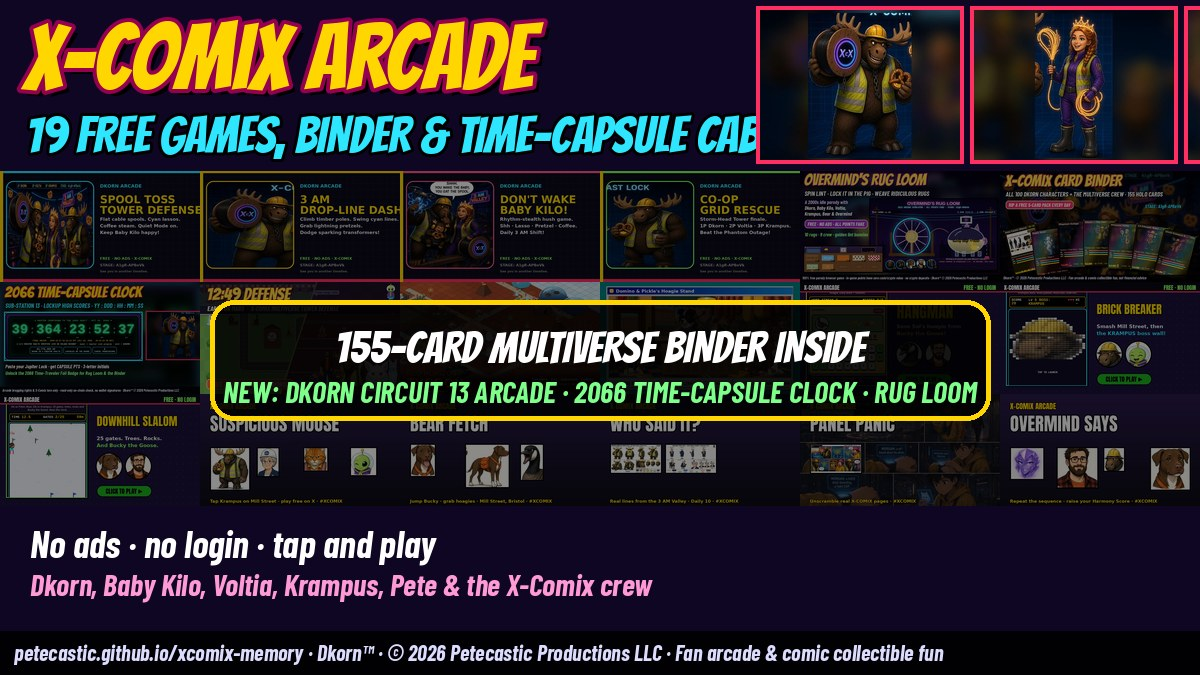
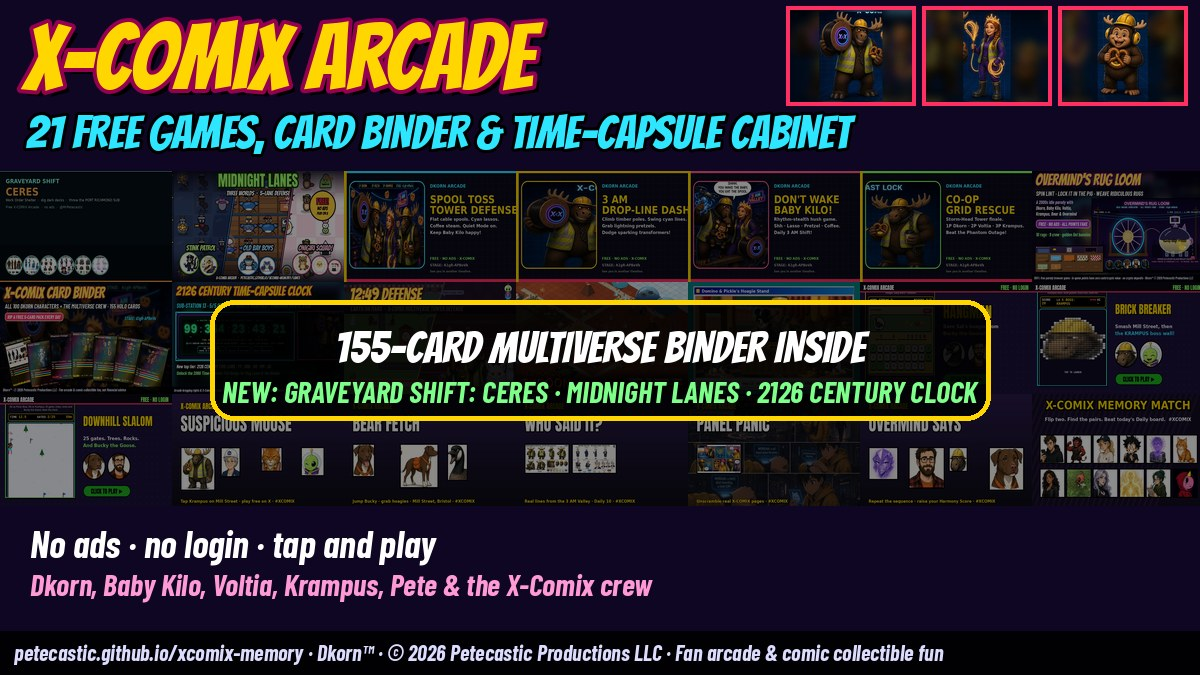
Hub: wire Graveyard Shift: Ceres + Midnight Lanes: Three Worlds (21 free games, card binder & time-capsule cabinet); refresh arcade + 2126 vault-clock promos

Changed region(s): [[0.0, 0.0, 1.0, 0.7467]]

diff --git a/index.html b/index.html
@@ -1,9 +1,9 @@
 <!doctype html><html lang="en"><head><meta charset="utf-8">
 <meta name="viewport" content="width=device-width,initial-scale=1,viewport-fit=cover">
 <title>X-COMIX Arcade · 3 AM Valley</title><meta name="theme-color" content="#0d0d14">
-<meta name="description" content="19 free X-COMIX MULTIVERSE games, binder &amp; time-capsule cabinet: the new Dkorn Circuit 13 Arcade (Spool Toss TD, 3 AM Drop-Line Dash, Don&#39;t Wake Baby Kilo!, Co-Op Grid Rescue, Overmind&#39;s Rug Loom, the 155-card Multiverse Card Binder, the 2126 Century Time-Capsule Clock), 12:49 Defense, Red Horizon Tycoon, Domino &amp; Pickle's Hoagie Stand, Hangman, Brick Breaker, Downhill Slalom, Memory Match, Suspicious Moose, Bear Fetch, Who Said It?, Panel Panic and Overmind Says.">
+<meta name="description" content="21 free X-COMIX MULTIVERSE games, card binder &amp; time-capsule cabinet: new Graveyard Shift: Ceres and Midnight Lanes: Three Worlds, the Dkorn Circuit 13 Arcade (Spool Toss TD, 3 AM Drop-Line Dash, Don&#39;t Wake Baby Kilo!, Co-Op Grid Rescue, Overmind&#39;s Rug Loom, the 155-card Multiverse Card Binder, the 2126 Century Time-Capsule Clock), 12:49 Defense, Red Horizon Tycoon, Domino &amp; Pickle's Hoagie Stand, Hangman, Brick Breaker, Downhill Slalom, Memory Match, Suspicious Moose, Bear Fetch, Who Said It?, Panel Panic and Overmind Says.">
 <meta name="twitter:card" content="summary_large_image"><meta name="twitter:site" content="@mrpetecastic"><meta name="twitter:title" content="X-COMIX Arcade · 3 AM Valley">
-<meta name="twitter:description" content="19 free X-COMIX games, binder &amp; time-capsule cabinet, now with the Dkorn Circuit 13 Arcade, a 155-card Multiverse Binder and the 2126 Century Time-Capsule Clock. No ads, no login. Tap and play."><meta name="twitter:image" content="https://petecastic.github.io/xcomix-memory/arcade/promo/arcade.jpg">
+<meta name="twitter:description" content="21 free X-COMIX games, card binder &amp; time-capsule cabinet, now with Graveyard Shift: Ceres, Midnight Lanes: Three Worlds, the Dkorn Circuit 13 Arcade, a 155-card Multiverse Binder and the 2126 Century Time-Capsule Clock. No ads, no login. Tap and play."><meta name="twitter:image" content="https://petecastic.github.io/xcomix-memory/arcade/promo/arcade.jpg">
 <meta property="og:title" content="X-COMIX Arcade · 3 AM Valley"><meta property="og:type" content="website"><meta property="og:url" content="https://petecastic.github.io/xcomix-memory/">
 <meta property="og:image" content="https://petecastic.github.io/xcomix-memory/arcade/promo/arcade.jpg"><meta property="og:image:width" content="1200"><meta property="og:image:height" content="675">
 <link rel="icon" href="data:,"><link rel="stylesheet" href="arcade/common.css"><link rel="stylesheet" href="arcade/dkorn-vip.css"><style>
@@ -40,13 +40,13 @@ body{background:#1a1238;padding:0}
 .legal{display:block;margin-top:6px;font-size:11px;color:#b8c3e6}
 </style></head><body>
 <div class="top"><div class="logo">X-<span>COMIX</span> ARCADE</div><div class="clk">🕐 12:49</div></div>
-<div class="wrap"><div class="free">FREE GAMES!</div><p class="lead">19 free games, binder &amp; time-capsule cabinet, made in the 3 AM Valley by @PeteCastic. No ads, no login. One tap and you're playing.</p>
+<div class="wrap"><div class="free">FREE GAMES!</div><p class="lead">21 free games, card binder &amp; time-capsule cabinet, made in the 3 AM Valley by @PeteCastic. No ads, no login. One tap and you're playing.</p>
 <div class="vipbar"><button class="vipb" id="vipHub">🎟 VIP Pass (Read-Only Check)</button><span id="lockHub"></span><a class="vipb" href="vault-clock/" style="text-decoration:none">⏳ 2126 Century Time-Capsule Clock</a></div>
-<section class="dk"><h2>⚡ DKORN · CIRCUIT 13 ARCADE<small>DKORN &amp; MULTIVERSE NEW RELEASES · STAGE: A1gR-APBeVk</small></h2><div class="nr"><a class="nrt" href="dkorn-spool/"><img src="arcade/promo/dkorn-spool.jpg" alt="Spool Toss Td"><b>SPOOL TOSS TD</b><em>Strategy</em></a><a class="nrt" href="dkorn-dash/"><img src="arcade/promo/dkorn-dash.jpg" alt="3 Am Drop-Line Dash"><b>3 AM DROP-LINE DASH</b><em>Action</em></a><a class="nrt" href="dkorn-quiet/"><img src="arcade/promo/dkorn-quiet.jpg" alt="Don&#39;T Wake Baby Kilo!"><b>DON&#39;T WAKE BABY KILO!</b><em>Puzzle</em></a><a class="nrt" href="dkorn-rescue/"><img src="arcade/promo/dkorn-rescue.jpg" alt="Co-Op Grid Rescue"><b>CO-OP GRID RESCUE</b><em>Action</em></a><a class="nrt" href="rug-loom/"><img src="arcade/promo/rug-loom.jpg" alt="Overmind&#39;S Rug Loom"><b>OVERMIND&#39;S RUG LOOM</b><em>Sim</em></a><a class="nrt" href="binder/"><img src="arcade/promo/binder.jpg" alt="Multiverse Card Binder"><b>MULTIVERSE CARD BINDER</b><em>Collectibles</em></a><a class="nrt" href="vault-clock/"><img src="arcade/promo/vault-clock.jpg" alt="2126 Century Time-Capsule Clock"><b>2126 CENTURY CLOCK</b><em>Collectibles</em></a></div></section>
+<section class="dk"><h2>⚡ DKORN · CIRCUIT 13 ARCADE<small>DKORN &amp; MULTIVERSE NEW RELEASES · STAGE: A1gR-APBeVk</small></h2><div class="nr"><a class="nrt" href="ceres/"><img src="arcade/promo/ceres.jpg" alt="Graveyard Shift: Ceres"><b>GRAVEYARD SHIFT: CERES</b><em>Sim · Strategy</em></a><a class="nrt" href="lanes/"><img src="arcade/promo/lanes.jpg" alt="Midnight Lanes: Three Worlds"><b>MIDNIGHT LANES: THREE WORLDS</b><em>Strategy</em></a><a class="nrt" href="dkorn-spool/"><img src="arcade/promo/dkorn-spool.jpg" alt="Spool Toss Td"><b>SPOOL TOSS TD</b><em>Strategy</em></a><a class="nrt" href="dkorn-dash/"><img src="arcade/promo/dkorn-dash.jpg" alt="3 Am Drop-Line Dash"><b>3 AM DROP-LINE DASH</b><em>Action</em></a><a class="nrt" href="dkorn-quiet/"><img src="arcade/promo/dkorn-quiet.jpg" alt="Don&#39;T Wake Baby Kilo!"><b>DON&#39;T WAKE BABY KILO!</b><em>Puzzle</em></a><a class="nrt" href="dkorn-rescue/"><img src="arcade/promo/dkorn-rescue.jpg" alt="Co-Op Grid Rescue"><b>CO-OP GRID RESCUE</b><em>Action</em></a><a class="nrt" href="rug-loom/"><img src="arcade/promo/rug-loom.jpg" alt="Overmind&#39;S Rug Loom"><b>OVERMIND&#39;S RUG LOOM</b><em>Sim</em></a><a class="nrt" href="binder/"><img src="arcade/promo/binder.jpg" alt="Multiverse Card Binder"><b>MULTIVERSE CARD BINDER</b><em>Collectibles</em></a><a class="nrt" href="vault-clock/"><img src="arcade/promo/vault-clock.jpg" alt="2126 Century Time-Capsule Clock"><b>2126 CENTURY CLOCK</b><em>Collectibles</em></a></div></section>
 <a class="feat" href="tycoon/"><img src="arcade/promo/tycoon.jpg" alt="Red Horizon Tycoon: a theme park on Mars"><span class="fl">FEATURED · NEW</span><span class="play fp">PLAY ▶</span></a>
 <a class="pickday" id="pick"></a>
 <div class="cats" id="cats"><button class="on" data-c="All">ALL</button><button class="dkp" data-c="Dkorn">⚡ DKORN</button><button class="dkp" data-c="Collectibles">COLLECTIBLES</button><button data-c="Action">ACTION</button><button data-c="Puzzle">PUZZLE</button><button data-c="Sim">SIM</button><button data-c="Sports">SPORTS</button><button data-c="Strategy">STRATEGY</button><button data-c="Word">WORD</button></div>
-<div class="grid" id="grid"><a class="tile" data-cat="Strategy Dkorn" data-k="dkorn-spool" href="dkorn-spool/"><span class="th"><img src="arcade/promo/dkorn-spool.jpg" alt="" loading="lazy"><i>NEW</i></span><b>SPOOL TOSS TD</b><small>Stack cable spools on Sub-Station 13. Voltia lassos, Krampus steams, keep Baby Kilo asleep.</small><span class="foot"><span class="stars" data-k="dkorn-spool"></span><span class="play">PLAY ▶</span></span><em class="cat">Strategy · DKORN</em></a><a class="tile" data-cat="Action Dkorn" data-k="dkorn-dash" href="dkorn-dash/"><span class="th"><img src="arcade/promo/dkorn-dash.jpg" alt="" loading="lazy"><i>NEW</i></span><b>3 AM DROP-LINE DASH</b><small>Climb timber poles, swing cyan drop-lines, grab lightning pretzels over the 3 AM rooftops.</small><span class="foot"><span class="stars" data-k="dkorn-dash"></span><span class="play">PLAY ▶</span></span><em class="cat">Action · DKORN</em></a><a class="tile" data-cat="Puzzle Dkorn" data-k="dkorn-quiet" href="dkorn-quiet/"><span class="th"><img src="arcade/promo/dkorn-quiet.jpg" alt="" loading="lazy"><i>NEW</i></span><b>DON&#39;T WAKE BABY KILO!</b><small>Rhythm-stealth hush game. Shh the drones, pass the pretzel teether, keep the baby asleep.</small><span class="foot"><span class="stars" data-k="dkorn-quiet"></span><span class="play">PLAY ▶</span></span><em class="cat">Puzzle · DKORN</em></a><a class="tile" data-cat="Action Dkorn" data-k="dkorn-rescue" href="dkorn-rescue/"><span class="th"><img src="arcade/promo/dkorn-rescue.jpg" alt="" loading="lazy"><i>NEW</i></span><b>CO-OP GRID RESCUE</b><small>Storm-Head Tower finale. Dkorn climbs, Voltia reflects, Krampus steams the Phantom Outage.</small><span class="foot"><span class="stars" data-k="dkorn-rescue"></span><span class="play">PLAY ▶</span></span><em class="cat">Action · DKORN</em></a><a class="tile" data-cat="Sim Dkorn" data-k="rug-loom" href="rug-loom/"><span class="th"><img src="arcade/promo/rug-loom.jpg" alt="" loading="lazy"><i>NEW</i></span><b>OVERMIND&#39;S RUG LOOM</b><small>Idle parody: spin fake lint, lock it in the glass pig, weave ridiculous rugs. All points fake.</small><span class="foot"><span class="stars" data-k="rug-loom"></span><span class="play">PLAY ▶</span></span><em class="cat">Sim · DKORN</em></a><a class="tile" data-cat="Collectibles Dkorn" data-k="binder" href="binder/"><span class="th"><img src="arcade/promo/binder.jpg" alt="" loading="lazy"><i>NEW</i></span><b>MULTIVERSE CARD BINDER</b><small>155 holo cards: all 100 Dkorn characters plus the multiverse crew. Free pack every day.</small><span class="foot"><span class="stars" data-k="binder"></span><span class="play">PLAY ▶</span></span><em class="cat">Collectibles · DKORN</em></a><a class="tile" data-cat="Collectibles Dkorn" data-k="vault-clock" href="vault-clock/"><span class="th"><img src="arcade/promo/vault-clock.jpg" alt="" loading="lazy"><i>NEW</i></span><b>2126 CENTURY TIME-CAPSULE CLOCK</b><small>Retro CRT countdown to 2126 and a lockup high-score table. Paste your capsule, claim the foil badge.</small><span class="foot"><span class="stars" data-k="vault-clock"></span><span class="play">PLAY ▶</span></span><em class="cat">Collectibles · DKORN</em></a><a class="tile" data-cat="Strategy" data-k="td" href="td/"><span class="th"><img src="arcade/promo/td.jpg" alt="" loading="lazy"><i>NEW</i></span><b>12:49 Defense: Earth on Mars</b><small>Tower defense with the X-COMIX cast. Pete, Krampus, Salt and friends hold the line from Bristol to the Red Horizon.</small><span class="foot"><span class="stars" data-k="td"></span><span class="play">PLAY &#9654;</span></span><em class="cat">Strategy</em></a><a class="tile" data-cat="Sim" data-k="tycoon" href="tycoon/"><span class="th"><img src="arcade/promo/tycoon.jpg" alt="" loading="lazy"><i>NEW</i></span><b>RED HORIZON TYCOON</b><small>Build a theme park on Mars.</small><span class="foot"><span class="stars" data-k="tycoon"></span><span class="play">PLAY ▶</span></span><em class="cat">Sim</em></a><a class="tile" data-cat="Sim" data-k="hoagie" href="hoagie/"><span class="th"><img src="arcade/promo/hoagie.jpg" alt="" loading="lazy"><i>NEW</i></span><b>HOAGIE STAND</b><small>Domino &amp; Pickle sell hoagies. Idle tycoon.</small><span class="foot"><span class="stars" data-k="hoagie"></span><span class="play">PLAY ▶</span></span><em class="cat">Sim</em></a><a class="tile" data-cat="Word" data-k="hangman" href="hangman/"><span class="th"><img src="arcade/promo/hangman.jpg" alt="" loading="lazy"><i>DAILY</i></span><b>HANGMAN</b><small>Save Sal's hoagie from Bucky the Goose.</small><span class="foot"><span class="stars" data-k="hangman"></span><span class="play">PLAY ▶</span></span><em class="cat">Word</em></a><a class="tile" data-cat="Action" data-k="bricks" href="bricks/"><span class="th"><img src="arcade/promo/bricks.jpg" alt="" loading="lazy"><i>NEW</i></span><b>BRICK BREAKER</b><small>Smash Mill Street and the Krampus boss wall.</small><span class="foot"><span class="stars" data-k="bricks"></span><span class="play">PLAY ▶</span></span><em class="cat">Action</em></a><a class="tile" data-cat="Sports" data-k="slalom" href="slalom/"><span class="th"><img src="arcade/promo/slalom.jpg" alt="" loading="lazy"><i>NEW</i></span><b>DOWNHILL SLALOM</b><small>Ski 25 gates. Dodge Bucky.</small><span class="foot"><span class="stars" data-k="slalom"></span><span class="play">PLAY ▶</span></span><em class="cat">Sports</em></a><a class="tile" data-cat="Puzzle" data-k="memory" href="memory/"><span class="th"><img src="shots/promo.png" alt="" loading="lazy"><i>DAILY</i></span><b>MEMORY MATCH</b><small>Flip cards, match the crew.</small><span class="foot"><span class="stars" data-k="memory"></span><span class="play">PLAY ▶</span></span><em class="cat">Puzzle</em></a><a class="tile" data-cat="Action" data-k="moose" href="moose/"><span class="th"><img src="arcade/promo/moose.jpg" alt="" loading="lazy"></span><b>SUSPICIOUS MOOSE</b><small>Tap Krampus in the windows.</small><span class="foot"><span class="stars" data-k="moose"></span><span class="play">PLAY ▶</span></span><em class="cat">Action</em></a><a class="tile" data-cat="Action" data-k="fetch" href="fetch/"><span class="th"><img src="arcade/promo/fetch.jpg" alt="" loading="lazy"></span><b>BEAR FETCH</b><small>Jump the goose, grab hoagies.</small><span class="foot"><span class="stars" data-k="fetch"></span><span class="play">PLAY ▶</span></span><em class="cat">Action</em></a><a class="tile" data-cat="Word" data-k="said" href="said/"><span class="th"><img src="arcade/promo/said.jpg" alt="" loading="lazy"><i>DAILY</i></span><b>WHO SAID IT?</b><small>Real lines from the cast.</small><span class="foot"><span class="stars" data-k="said"></span><span class="play">PLAY ▶</span></span><em class="cat">Word</em></a><a class="tile" data-cat="Puzzle" data-k="panels" href="panels/"><span class="th"><img src="arcade/promo/panels.jpg" alt="" loading="lazy"><i>DAILY</i></span><b>PANEL PANIC</b><small>Unscramble a real page.</small><span class="foot"><span class="stars" data-k="panels"></span><span class="play">PLAY ▶</span></span><em class="cat">Puzzle</em></a><a class="tile" data-cat="Puzzle" data-k="says" href="says/"><span class="th"><img src="arcade/promo/says.jpg" alt="" loading="lazy"></span><b>OVERMIND SAYS</b><small>Repeat the toaster AI.</small><span class="foot"><span class="stars" data-k="says"></span><span class="play">PLAY ▶</span></span><em class="cat">Puzzle</em></a></div><p class="note">★ Stars are your own rating, saved only on this device.</p>
+<div class="grid" id="grid"><a class="tile" data-cat="Sim Strategy" data-k="ceres" href="ceres/"><span class="th"><img src="arcade/promo/ceres.jpg" alt="" loading="lazy"><i>NEW</i></span><b>GRAVEYARD SHIFT: CERES</b><small>Cutaway base builder on haunted Ceres Station. Assign Dom, Vivian, Tess and the night-shift visitors.</small><span class="foot"><span class="stars" data-k="ceres"></span><span class="play">PLAY ▶</span></span><em class="cat">Sim · Strategy</em></a><a class="tile" data-cat="Strategy" data-k="lanes" href="lanes/"><span class="th"><img src="arcade/promo/lanes.jpg" alt="" loading="lazy"><i>NEW</i></span><b>MIDNIGHT LANES: THREE WORLDS</b><small>5-lane defense: Stink Patrol, the Old Bay Boys (live blue crabs!) and Onigiri Squad! 3 worlds, 3 bosses, endless mode.</small><span class="foot"><span class="stars" data-k="lanes"></span><span class="play">PLAY ▶</span></span><em class="cat">Strategy</em></a><a class="tile" data-cat="Strategy Dkorn" data-k="dkorn-spool" href="dkorn-spool/"><span class="th"><img src="arcade/promo/dkorn-spool.jpg" alt="" loading="lazy"><i>NEW</i></span><b>SPOOL TOSS TD</b><small>Stack cable spools on Sub-Station 13. Voltia lassos, Krampus steams, keep Baby Kilo asleep.</small><span class="foot"><span class="stars" data-k="dkorn-spool"></span><span class="play">PLAY ▶</span></span><em class="cat">Strategy · DKORN</em></a><a class="tile" data-cat="Action Dkorn" data-k="dkorn-dash" href="dkorn-dash/"><span class="th"><img src="arcade/promo/dkorn-dash.jpg" alt="" loading="lazy"><i>NEW</i></span><b>3 AM DROP-LINE DASH</b><small>Climb timber poles, swing cyan drop-lines, grab lightning pretzels over the 3 AM rooftops.</small><span class="foot"><span class="stars" data-k="dkorn-dash"></span><span class="play">PLAY ▶</span></span><em class="cat">Action · DKORN</em></a><a class="tile" data-cat="Puzzle Dkorn" data-k="dkorn-quiet" href="dkorn-quiet/"><span class="th"><img src="arcade/promo/dkorn-quiet.jpg" alt="" loading="lazy"><i>NEW</i></span><b>DON&#39;T WAKE BABY KILO!</b><small>Rhythm-stealth hush game. Shh the drones, pass the pretzel teether, keep the baby asleep.</small><span class="foot"><span class="stars" data-k="dkorn-quiet"></span><span class="play">PLAY ▶</span></span><em class="cat">Puzzle · DKORN</em></a><a class="tile" data-cat="Action Dkorn" data-k="dkorn-rescue" href="dkorn-rescue/"><span class="th"><img src="arcade/promo/dkorn-rescue.jpg" alt="" loading="lazy"><i>NEW</i></span><b>CO-OP GRID RESCUE</b><small>Storm-Head Tower finale. Dkorn climbs, Voltia reflects, Krampus steams the Phantom Outage.</small><span class="foot"><span class="stars" data-k="dkorn-rescue"></span><span class="play">PLAY ▶</span></span><em class="cat">Action · DKORN</em></a><a class="tile" data-cat="Sim Dkorn" data-k="rug-loom" href="rug-loom/"><span class="th"><img src="arcade/promo/rug-loom.jpg" alt="" loading="lazy"><i>NEW</i></span><b>OVERMIND&#39;S RUG LOOM</b><small>Idle parody: spin fake lint, lock it in the glass pig, weave ridiculous rugs. All points fake.</small><span class="foot"><span class="stars" data-k="rug-loom"></span><span class="play">PLAY ▶</span></span><em class="cat">Sim · DKORN</em></a><a class="tile" data-cat="Collectibles Dkorn" data-k="binder" href="binder/"><span class="th"><img src="arcade/promo/binder.jpg" alt="" loading="lazy"><i>NEW</i></span><b>MULTIVERSE CARD BINDER</b><small>155 holo cards: all 100 Dkorn characters plus the multiverse crew. Free pack every day.</small><span class="foot"><span class="stars" data-k="binder"></span><span class="play">PLAY ▶</span></span><em class="cat">Collectibles · DKORN</em></a><a class="tile" data-cat="Collectibles Dkorn" data-k="vault-clock" href="vault-clock/"><span class="th"><img src="arcade/promo/vault-clock.jpg" alt="" loading="lazy"><i>NEW</i></span><b>2126 CENTURY TIME-CAPSULE CLOCK</b><small>Retro CRT countdown to 2126 and a lockup high-score table. Paste your capsule, claim the foil badge.</small><span class="foot"><span class="stars" data-k="vault-clock"></span><span class="play">PLAY ▶</span></span><em class="cat">Collectibles · DKORN</em></a><a class="tile" data-cat="Strategy" data-k="td" href="td/"><span class="th"><img src="arcade/promo/td.jpg" alt="" loading="lazy"><i>NEW</i></span><b>12:49 Defense: Earth on Mars</b><small>Tower defense with the X-COMIX cast. Pete, Krampus, Salt and friends hold the line from Bristol to the Red Horizon.</small><span class="foot"><span class="stars" data-k="td"></span><span class="play">PLAY &#9654;</span></span><em class="cat">Strategy</em></a><a class="tile" data-cat="Sim" data-k="tycoon" href="tycoon/"><span class="th"><img src="arcade/promo/tycoon.jpg" alt="" loading="lazy"><i>NEW</i></span><b>RED HORIZON TYCOON</b><small>Build a theme park on Mars.</small><span class="foot"><span class="stars" data-k="tycoon"></span><span class="play">PLAY ▶</span></span><em class="cat">Sim</em></a><a class="tile" data-cat="Sim" data-k="hoagie" href="hoagie/"><span class="th"><img src="arcade/promo/hoagie.jpg" alt="" loading="lazy"><i>NEW</i></span><b>HOAGIE STAND</b><small>Domino &amp; Pickle sell hoagies. Idle tycoon.</small><span class="foot"><span class="stars" data-k="hoagie"></span><span class="play">PLAY ▶</span></span><em class="cat">Sim</em></a><a class="tile" data-cat="Word" data-k="hangman" href="hangman/"><span class="th"><img src="arcade/promo/hangman.jpg" alt="" loading="lazy"><i>DAILY</i></span><b>HANGMAN</b><small>Save Sal's hoagie from Bucky the Goose.</small><span class="foot"><span class="stars" data-k="hangman"></span><span class="play">PLAY ▶</span></span><em class="cat">Word</em></a><a class="tile" data-cat="Action" data-k="bricks" href="bricks/"><span class="th"><img src="arcade/promo/bricks.jpg" alt="" loading="lazy"><i>NEW</i></span><b>BRICK BREAKER</b><small>Smash Mill Street and the Krampus boss wall.</small><span class="foot"><span class="stars" data-k="bricks"></span><span class="play">PLAY ▶</span></span><em class="cat">Action</em></a><a class="tile" data-cat="Sports" data-k="slalom" href="slalom/"><span class="th"><img src="arcade/promo/slalom.jpg" alt="" loading="lazy"><i>NEW</i></span><b>DOWNHILL SLALOM</b><small>Ski 25 gates. Dodge Bucky.</small><span class="foot"><span class="stars" data-k="slalom"></span><span class="play">PLAY ▶</span></span><em class="cat">Sports</em></a><a class="tile" data-cat="Puzzle" data-k="memory" href="memory/"><span class="th"><img src="shots/promo.png" alt="" loading="lazy"><i>DAILY</i></span><b>MEMORY MATCH</b><small>Flip cards, match the crew.</small><span class="foot"><span class="stars" data-k="memory"></span><span class="play">PLAY ▶</span></span><em class="cat">Puzzle</em></a><a class="tile" data-cat="Action" data-k="moose" href="moose/"><span class="th"><img src="arcade/promo/moose.jpg" alt="" loading="lazy"></span><b>SUSPICIOUS MOOSE</b><small>Tap Krampus in the windows.</small><span class="foot"><span class="stars" data-k="moose"></span><span class="play">PLAY ▶</span></span><em class="cat">Action</em></a><a class="tile" data-cat="Action" data-k="fetch" href="fetch/"><span class="th"><img src="arcade/promo/fetch.jpg" alt="" loading="lazy"></span><b>BEAR FETCH</b><small>Jump the goose, grab hoagies.</small><span class="foot"><span class="stars" data-k="fetch"></span><span class="play">PLAY ▶</span></span><em class="cat">Action</em></a><a class="tile" data-cat="Word" data-k="said" href="said/"><span class="th"><img src="arcade/promo/said.jpg" alt="" loading="lazy"><i>DAILY</i></span><b>WHO SAID IT?</b><small>Real lines from the cast.</small><span class="foot"><span class="stars" data-k="said"></span><span class="play">PLAY ▶</span></span><em class="cat">Word</em></a><a class="tile" data-cat="Puzzle" data-k="panels" href="panels/"><span class="th"><img src="arcade/promo/panels.jpg" alt="" loading="lazy"><i>DAILY</i></span><b>PANEL PANIC</b><small>Unscramble a real page.</small><span class="foot"><span class="stars" data-k="panels"></span><span class="play">PLAY ▶</span></span><em class="cat">Puzzle</em></a><a class="tile" data-cat="Puzzle" data-k="says" href="says/"><span class="th"><img src="arcade/promo/says.jpg" alt="" loading="lazy"></span><b>OVERMIND SAYS</b><small>Repeat the toaster AI.</small><span class="foot"><span class="stars" data-k="says"></span><span class="play">PLAY ▶</span></span><em class="cat">Puzzle</em></a></div><p class="note">★ Stars are your own rating, saved only on this device.</p>
 <footer>X-COMIX MULTIVERSE by <a href="https://x.com/PeteCastic" target="_blank" rel="noopener">@PeteCastic</a> · #XCOMIX · “X-COMIX, we never close.”<span class="legal">Dkorn™ · © 2026 Petecastic Productions LLC · Fan arcade &amp; comic collectible fun, not financial advice</span></footer></div>
 <script>
 const T=[...document.querySelectorAll('.tile')],d=new Date(),n=(d.getFullYear()*400+d.getMonth()*31+d.getDate())%T.length,p=T[n];
